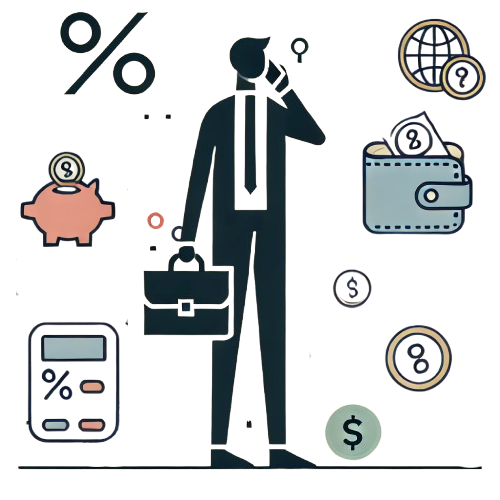
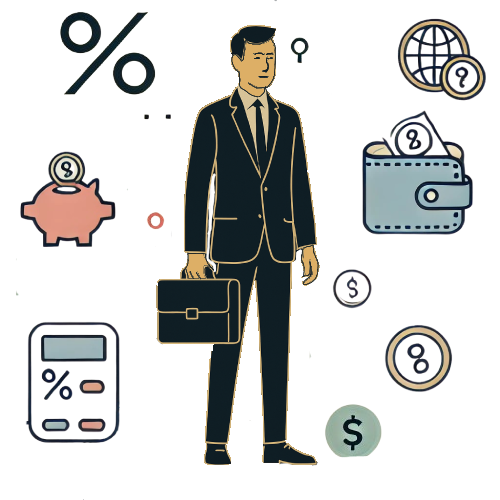
dynamic values nad images update

Changed region(s): [[0.03, 0.03, 0.96, 0.96]]

diff --git a/frontend/src/components/CalculateTaxScale.jsx b/frontend/src/components/CalculateTaxScale.jsx
@@ -5,65 +5,97 @@ import TaxStep from "./TaxStep";
 
 const CalculateTaxScale = ({data}) => {
 
+    // --- \/ - DATA PREPARATION - \/ --- //
+
+    const {taxData} = data;
+    const {taxParameters} = data;
+
+    const {socialContributions} = taxParameters;
+    const {taxScale} = taxParameters;
+    const {healthCountributions} = taxParameters;
+    const {taxBreaks} = taxParameters;
+    const {danina} = taxParameters;
+    const {taxFreeAmout} = taxParameters;
+
+    // --- /\ --------------- /\ --- //
+
     const [showSteps, setShowSteps] = useState(false);
 
-    const contributionBasis = 5203.80;
-
-    const netIncome = (data.income - data.costsOfIncome);
-
-    const uEmerytalne = (contributionBasis * 19.52) / 100;
-    const uRentowe = (contributionBasis * 8) / 100;
-    const uChorobowe = (contributionBasis * 2.45) / 100; 
-    const uWypadkowe = (contributionBasis * 1.67) / 100;
-    const funduszPracy = (contributionBasis * 2.45) / 100;
-
-    const socialContributions = uEmerytalne + uRentowe + uChorobowe + uWypadkowe + funduszPracy;
-    const healthContribution = (netIncome * 9) / 100;
-
-    const taxBase = (netIncome - socialContributions * 12);
-
-    const isTaxFree = taxBase > 30000;
-
     let tax;
+    let taxBreaksValue;
+    let daninaValue;
 
-    if(taxBase <= 120000){
-        tax = ((taxBase * 12) / 100) - 3600;
-    } else if(taxBase > 120000){
-        tax = (((120000 * 12) / 100) - 3600) + ((taxBase - 120000) * 32) / 100; 
-    }
+    const netIncome = (taxData.income - taxData.costsOfIncome);
+    
+    // Składka społeczna
+    const contributionBasis = socialContributions.minSocialContributionBasis;
 
-    let ulgiPodatkowe;
+    const uEmerytalne = (contributionBasis * socialContributions.uEmerytalnePercentage) / 100;
+    const uRentowe = (contributionBasis * socialContributions.uRentowePercentage) / 100;
+    const uChorobowe = (contributionBasis * socialContributions.uChorobowePercentage) / 100; 
+    const uWypadkowe = (contributionBasis * socialContributions.uWypadkowePercentage) / 100;
+    const funduszPracy = (contributionBasis * socialContributions.funduszPracyPercentage) / 100;
+    const socialContributionsValue = uEmerytalne + uRentowe + uChorobowe + uWypadkowe + funduszPracy;
 
-    if(tax < 0){
+    // Składka zdrowotna
+    const healthContributionsValue = (netIncome * healthCountributions.taxScale.valuePercentage) / 100;
+
+    // Podstawa opodatkowania
+    const taxBase = (netIncome - socialContributionsValue * 12);
+
+    // Sprawdzenie kwotwy wolnej od podatku
+    const isTaxFree = taxFreeAmout > taxBase ;
+
+    if(!isTaxFree){
+
+        // Progi podatkowe
+        if(taxBase <= taxScale.firstMaxIncome){
+            tax = ((taxBase * taxScale.firstPercentage) / 100) - 3600;
+        } else if(taxBase > taxScale.secondMinIncome){
+            tax = (((taxScale.firstMaxIncome * taxScale.firstPercentage) / 100) - 3600) + ((taxBase - taxScale.firstMaxIncome) * taxScale.secondPercentage) / 100; 
+        }
+
+        if(taxData.availableTaxBreaks){
+
+        }
+
+        if(tax < 0){
+            tax = 0;
+        }
+
+        // Danina solidarnościowa
+        if(netIncome > danina.minIncome){
+            daninaValue = ((netIncome - danina.minIncome) * danina.valuePercentage) / 100;
+        }
+    
+    } else {
         tax = 0;
     }
 
-    let danina;
-
-    if(netIncome > 1000000){
-        danina = ((netIncome - 1000000) * 4) / 100;
-    }
-
     useEffect(() => {
-        console.log(typeof(contributionBasis))
-        console.log(typeof(netIncome))
-        console.log(typeof(uEmerytalne))
-        console.log(typeof(uRentowe))
-        console.log(typeof(uChorobowe))
-        console.log(typeof(uWypadkowe))
-        console.log(typeof(funduszPracy))
-        console.log(typeof(socialContributions))
-        console.log(typeof(healthContribution))
-        console.log(typeof(taxBase))
-        console.log(typeof(isTaxFree))
-        console.log(data);
+        console.log("Calculate Tax Scale",data);
+        console.log("Calculate Tax Scale tax data", taxData);
+        console.log("Calculate Tax Scale tax parameters", taxParameters);
+        console.log(isTaxFree)
+        // console.log(typeof(contributionBasis))
+        // console.log(typeof(netIncome))
+        // console.log(typeof(uEmerytalne))
+        // console.log(typeof(uRentowe))
+        // console.log(typeof(uChorobowe))
+        // console.log(typeof(uWypadkowe))
+        // console.log(typeof(funduszPracy))
+        // console.log(typeof(socialContributions))
+        // console.log(typeof(healthContribution))
+        // console.log(typeof(taxBase))
+        // console.log(typeof(isTaxFree))
+        // console.log(taxData);
     },[])
 
     return (
         <div className="tax-result__box">
             <TaxResult tax={tax} 
-                       socialContributions={socialContributions}
-                       healthContribution={healthContribution}
+                       socialContributions={socialContributionsValue}
+                       healthContribution={healthContributionsValue}
             />
             <div className="tax-steps">
                 <div className="tax-steps__head" onClick={() => setShowSteps(!showSteps)}>
@@ -71,12 +103,12 @@ const CalculateTaxScale = ({data}) => {
                     <button className="cta">{showSteps ? "Zamknij" : "Zobacz"}</button>
                 </div>
                 <div className={`tax-steps__body animated-box ${showSteps ? "open" : "closed"}`}>
-                    <TaxStep name="Roczny przychód brutto:"
-                             calculations={`${data.income} zł`} />
+                    {/* <TaxStep name="Roczny przychód brutto:"
+                             calculations={`${taxData.income} zł`} />
                     <TaxStep name="Roczne koszty uzyskania przychodu:"
-                             calculations={`${data.costsOfIncome} zł`} />
+                             calculations={`${taxData.costsOfIncome} zł`} />
                     <TaxStep name="Roczny przychód netto:"
-                             calculations={`${data.income} zł - ${data.costsOfIncome} zł = ${netIncome} zł`} />
+                             calculations={`${taxData.income} zł - ${taxData.costsOfIncome} zł = ${netIncome} zł`} />
                     <TaxStep name="Ubezpieczenie emerytalne:" 
                              calculations={`${contributionBasis} zł * 19.52% = ${uEmerytalne} zł`} />
                     <TaxStep name="Ubezpieczenie rentowe:" 
@@ -96,7 +128,7 @@ const CalculateTaxScale = ({data}) => {
                     <p>{tax}</p>
                     <TaxStep name="Danina solidatnościowa:" 
                              calculations={`(${netIncome} zł - 1000000 zł) * 4% = ${danina} zł`} />
-                    <p>danina {danina}</p>
+                    <p>danina {danina}</p> */}
                 </div>
             </div>
         </div>

diff --git a/frontend/src/pages/TaxScale.jsx b/frontend/src/pages/TaxScale.jsx
@@ -6,9 +6,15 @@ import ToggleInput from "../components/ToggleInput";
 import Checkbox from "../components/Checkbox";
 import { useNavigate } from "react-router-dom";
 
-const TaxScale = () => {
+const TaxScale = ({taxParameters}) => {
 
     const navigate = useNavigate();
+
+    const [errorMessage, setErrorMessage] = useState("Przychód musi być większy od 0");
+    const [error, setError] = useState({
+        showError: false,
+        income: false
+    })
 
     const [income, setIncome] = useState(0);
     const [costsOfIncome, setCostsOfIncome] = useState(0);
@@ -23,6 +29,12 @@ const TaxScale = () => {
     const [availableTaxBreaks, setAvailableTaxBreaks] = useState(false);
     const [taxWithSpous, setTaxWithSpous] = useState(false);
     const [spouseIncome, setSpouseIncome] = useState(0);
+
+    const [internetValue, setInternetValue] = useState(0);
+    const [rehabilitationValue, setrehabilitationValue] = useState(0);
+    const [childrenNumber, setChildrenNumber] = useState(0);
+    const [bloodLiters, setBloodLiters] = useState(0);
+    const [newTechnologyValue, setNewTechnologyValue] = useState(0);
 
     const handleCheckbox = (e,setter) => {
         setter(e.target.checked);
@@ -49,19 +61,34 @@ const TaxScale = () => {
     },[taxWithSpous,availableTaxBreaks,income,costsOfIncome,spouseIncome,taxBreaks])
 
     const validateInputs = () => {
-        const data = {
-            taxType: "skala podatkowa",
+        const taxData = {
             income,
             costsOfIncome,
             taxBreaks,
             availableTaxBreaks,
             taxWithSpous,
-            spouseIncome
+            spouseIncome,
+            internetValue,
+            rehabilitationValue,
+            childrenNumber,
+            bloodLiters,
+            newTechnologyValue,
+        }
+
+        let data = {
+            taxType: "skala podatkowa",
+            taxData: taxData,
+            taxParameters: taxParameters
         }
 
         if(income > 0){
             console.log("Sprawdzam dane i przechodzę dalej")
             navigate("/podatek", {state: data});
+        } else {
+            setError((prev) => ({
+                ...prev,
+                showError: true
+            }))
         }
     }
 
@@ -83,10 +110,35 @@ const TaxScale = () => {
                     <div className={`animated-box ${availableTaxBreaks ? "open" : "closed"}`}>
                         <p className="tax-scale__breaks">Wybierz ulgi podatkowe:</p>
                         <Checkbox text="Ulga na internet" name="internet" handleChange={(e) => handleTaxBreaks(e)}/>
+                        <div className={`animated-box ${taxBreaks.internet ? "open" : "closed"}`}>
+                            <TaxInput label="Koszty poniesione na Internet" type="number" value={internetValue}
+                                    handleChange={(e) => handleChange(e,setInternetValue)} 
+                            />
+                        </div>
                         <Checkbox text="Ulga rehabilitacyjna" name="rehabilitation" handleChange={(e) => handleTaxBreaks(e)}/>
+                        <div className={`animated-box ${taxBreaks.rehabilitation ? "open" : "closed"}`}>
+                            <TaxInput label="Koszty poniesione na rehabilitacje" type="number" value={rehabilitationValue}
+                                    handleChange={(e) => handleChange(e,setrehabilitationValue)} 
+                            />
+                        </div>
                         <Checkbox text="Ulga na dziecko" name="child" handleChange={(e) => handleTaxBreaks(e)}/>
+                        <div className={`animated-box ${taxBreaks.child ? "open" : "closed"}`}>
+                            <TaxInput label="Ilość dzieci" type="number" value={childrenNumber}
+                                    handleChange={(e) => handleChange(e,setChildrenNumber)} 
+                            />
+                        </div>
                         <Checkbox text="Ulga dla krwiodawców" name="bloodDonation" handleChange={(e) => handleTaxBreaks(e)}/>
+                        <div className={`animated-box ${taxBreaks.bloodDonation ? "open" : "closed"}`}>
+                            <TaxInput label="Ilość litrów krwi" type="number" value={bloodLiters}
+                                    handleChange={(e) => handleChange(e,setBloodLiters)} 
+                            />
+                        </div>
                         <Checkbox text="Ulga na nowe technologie" name="newTech" handleChange={(e) => handleTaxBreaks(e)}/>
+                        <div className={`animated-box ${taxBreaks.newTech ? "open" : "closed"}`}>
+                            <TaxInput label="Koszty poniesione na nowe technologie" type="number" value={newTechnologyValue}
+                                    handleChange={(e) => handleChange(e,setNewTechnologyValue)} 
+                            />
+                        </div>
                         <Checkbox text="Ulga dla młodych" name="youth" handleChange={(e) => handleTaxBreaks(e)}/>
                     </div>
                     <ToggleInput label="Rozliczasz się wspólnie z małżonkiem?" 
@@ -97,6 +149,13 @@ const TaxScale = () => {
                                   handleChange={(e) => handleChange(e,setSpouseIncome)} 
                         />
                     </div>
+                    { 
+                        error.showError && 
+                        <p className="error__message">
+                            {errorMessage}
+                        </p>
+                    }
+
                     <button className="cta" onClick={validateInputs}>Oblicz podatek</button>
                 </div>
             </div>

diff --git a/frontend/src/components/ChooseTaxPath.jsx b/frontend/src/components/ChooseTaxPath.jsx
@@ -3,30 +3,33 @@ import "../styles/chooseTaxPath.css"
 // import BussinesManImg from "../assets/bussines_man.png";
 // import Card from './Card';
 import PathBody from "../components/PathBody";
-import image from "../assets/bussines_man.png";
+import bussinesMan from "../assets/bussines_man.png";
+import bussinesWoman from "../assets/bussines_woman.png";
+import bussingesGrandpa from "../assets/bussines_grandpa.png";
+import bussinesTrio from "../assets/bussines_trio.png";
 
 const taxPaths = [
     {
         title: "Rozliczam się według skali podatkowej",
-        imgUrl: image,
+        imgUrl: bussinesMan,
         imgAlt: "Skala podatkowa",
         path: "skala-podatkowa",
     },
     {
         title: "Rozliczam się podatkiem liniowym",
-        imgUrl: image,
+        imgUrl: bussinesWoman,
         imgAlt: "Podatek liniowy",
         path: "podatek-liniowy"
     },
     {
         title: "Rozliczam się ryczałtem ewidencjonowanym",
-        imgUrl: image,
+        imgUrl: bussingesGrandpa,
         imgAlt: "Ryczałt ewidencjonowany",
         path: "ryczalt-ewidencjonowany"
     },
     {
         title: "Porównanie sposobów opodatkowania",
-        imgUrl: image,
+        imgUrl: bussinesTrio,
         imgAlt: "Porównanie opodatkowania",
         path: "porownanie-opodatkowania"
     }

diff --git a/frontend/src/App.jsx b/frontend/src/App.jsx
@@ -27,10 +27,10 @@ function App() {
     return savedData ? JSON.parse(savedData) : defaultValues; 
   });
 
-  useEffect(() => {
-    console.log("TaxParameters",taxParameters);
-    localStorage.setItem(LOCAL_STORAGE_KEY, JSON.stringify(taxParameters));
-  }, [taxParameters]);
+  // useEffect(() => {
+  //   console.log("TaxParameters",taxParameters);
+  //   localStorage.setItem(LOCAL_STORAGE_KEY, JSON.stringify(taxParameters));
+  // }, [taxParameters]);
 
   const reset = () => {
     console.log("Reset App")
@@ -54,7 +54,7 @@ function App() {
             <Route path="/przedsiebiorca/ryczalt-ewidencjonowany" element={<LumpSumTax />} />
             <Route path="/przedsiebiorca/podatek-liniowy" element={<FlatTax />} />
             <Route path="/przedsiebiorca/porownanie-opodatkowania" element={""} /> */}
-            <Route path="/skala-podatkowa" element={<TaxScale />} />
+            <Route path="/skala-podatkowa" element={<TaxScale taxParameters={taxParameters}/>} />
             <Route path="/ryczalt-ewidencjonowany" element={<LumpSumTax />} />
             <Route path="/podatek-liniowy" element={<FlatTax />} />
             <Route path="/porownanie-opodatkowania" element={<TaxCompare />} />

diff --git a/frontend/src/styles/app.css b/frontend/src/styles/app.css
@@ -18,6 +18,7 @@ html {
     --light-gray2: #7070708f;
     --dark: #1E2E3B;
     --green: #98b69c;
+    --red: #f13000;
     --color1: #98b6b4;
     --color2: #D9B88D;
     --color3: #E29784;
@@ -127,6 +128,10 @@ img{
 .animated-box.closed {
     max-height: 0;
     opacity: 0;
+}
+
+.error__message{
+    color: var(--red);
 }
 
 @media screen and (max-width: 768px) {

diff --git a/frontend/src/pages/Tax.jsx b/frontend/src/pages/Tax.jsx
@@ -8,7 +8,7 @@ const Tax = () => {
     const location = useLocation();
     const data = location.state;
     useEffect(() => {
-        console.log(data)
+        console.log("TAX",data)
     },[])
 
     return (
